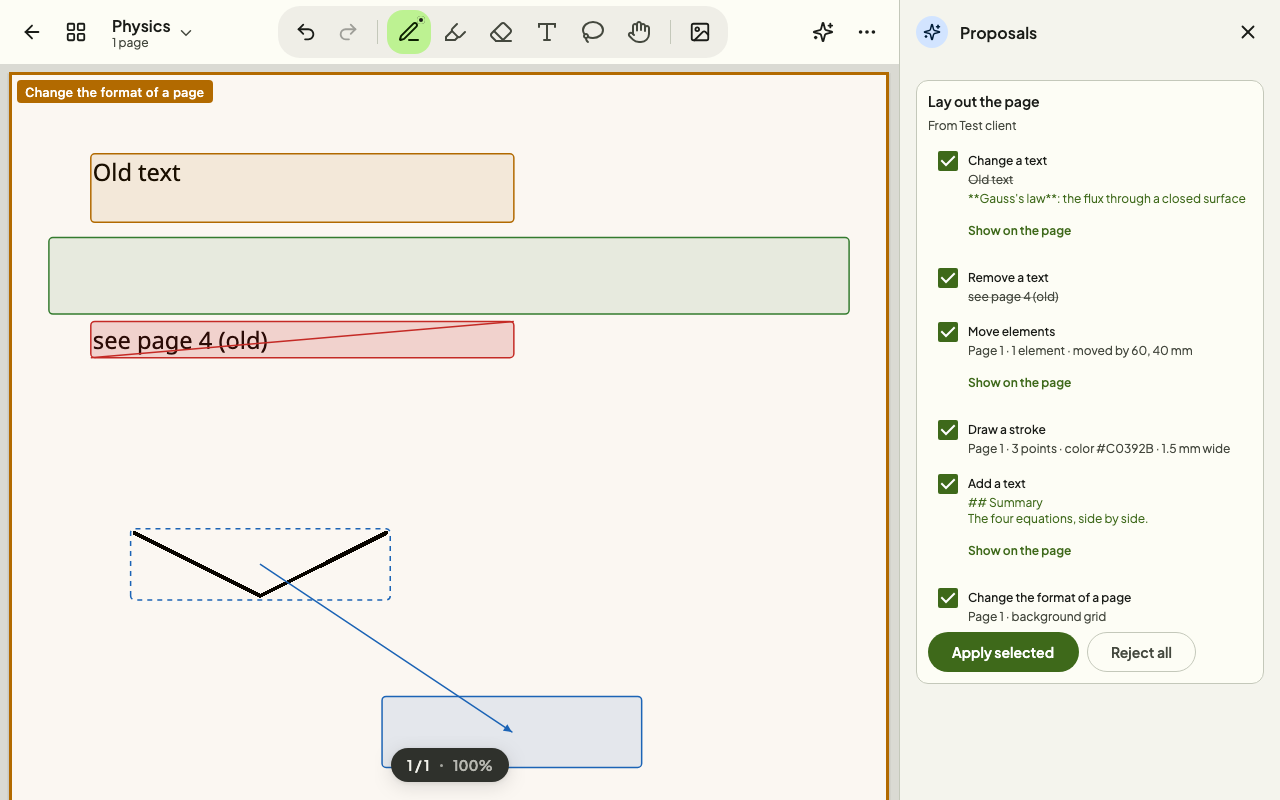
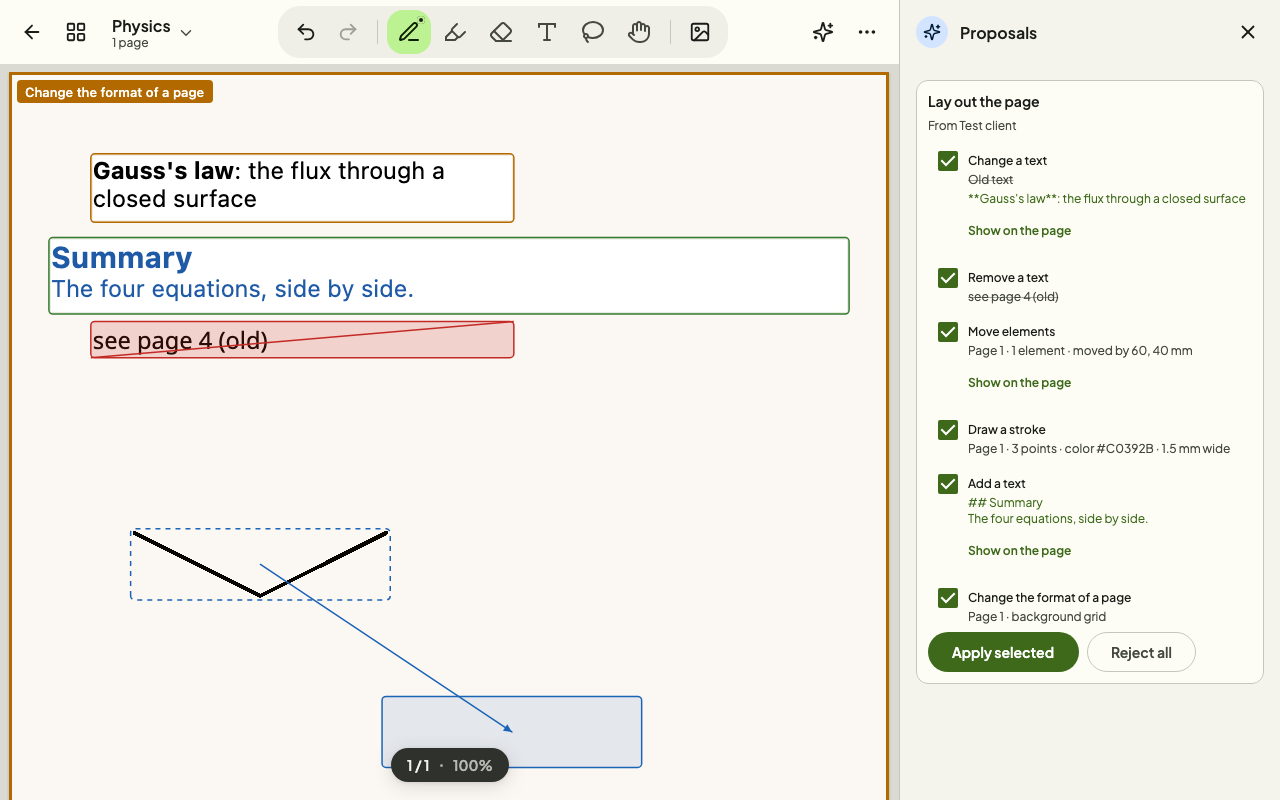
feat(agent): the words of the texts a proposal adds or changes drawn on the page

Changed region(s): [[0.0312, 0.1875, 0.6875, 0.4062]]

diff --git a/drawview-agent-ui/src/commonMain/kotlin/io/github/valerioisufi/drawview/agent/ui/ProposalMarksLayer.kt b/drawview-agent-ui/src/commonMain/kotlin/io/github/valerioisufi/drawview/agent/ui/ProposalMarksLayer.kt
@@ -1,12 +1,22 @@
 package io.github.valerioisufi.drawview.agent.ui
 
 import androidx.compose.foundation.Canvas
+import androidx.compose.foundation.background
+import androidx.compose.foundation.layout.Box
+import androidx.compose.foundation.layout.heightIn
+import androidx.compose.foundation.layout.width
+import androidx.compose.foundation.layout.wrapContentSize
 import androidx.compose.runtime.Composable
+import androidx.compose.runtime.CompositionLocalProvider
+import androidx.compose.runtime.derivedStateOf
 import androidx.compose.runtime.getValue
+import androidx.compose.runtime.key
+import androidx.compose.runtime.remember
 import androidx.compose.runtime.mutableStateOf
 import androidx.compose.runtime.mutableStateSetOf
 import androidx.compose.runtime.setValue
 import androidx.compose.runtime.snapshots.SnapshotStateSet
+import androidx.compose.ui.Alignment
 import androidx.compose.ui.Modifier
 import androidx.compose.ui.geometry.CornerRadius
 import androidx.compose.ui.geometry.Offset
@@ -17,15 +27,19 @@ import androidx.compose.ui.graphics.Path
 import androidx.compose.ui.graphics.PathEffect
 import androidx.compose.ui.graphics.StrokeCap
 import androidx.compose.ui.graphics.StrokeJoin
+import androidx.compose.ui.graphics.TransformOrigin
+import androidx.compose.ui.graphics.graphicsLayer
 import androidx.compose.ui.graphics.drawscope.DrawScope
 import androidx.compose.ui.graphics.drawscope.Stroke
 import androidx.compose.ui.graphics.drawscope.clipRect
+import androidx.compose.ui.platform.LocalDensity
 import androidx.compose.ui.platform.testTag
 import androidx.compose.ui.text.TextMeasurer
 import androidx.compose.ui.text.TextStyle
 import androidx.compose.ui.text.drawText
 import androidx.compose.ui.text.font.FontWeight
 import androidx.compose.ui.text.rememberTextMeasurer
+import androidx.compose.ui.unit.Density
 import androidx.compose.ui.unit.dp
 import androidx.compose.ui.unit.sp
 import io.github.valerioisufi.drawview.agent.PlannedMark
@@ -33,6 +47,8 @@ import io.github.valerioisufi.drawview.agent.Proposal
 import io.github.valerioisufi.drawview.agent.ProposalPlan
 import io.github.valerioisufi.drawview.canvas.controller.DrawViewController
 import io.github.valerioisufi.drawview.model.geometry.Matrix2D
+import io.github.valerioisufi.drawview.model.text.TextSizes
+import io.github.valerioisufi.drawview.ui.components.MarkdownText
 import kotlin.math.atan2
 import kotlin.math.cos
 import kotlin.math.hypot
@@ -120,6 +136,79 @@ internal object MarkColors {
  */
 @Composable
 internal fun ProposalMarksLayer(controller: DrawViewController, marks: List<DrawnMark>, modifier: Modifier = Modifier) {
+    Box(modifier) {
+        MarkFrames(controller, marks, Modifier.matchParentSize())
+        MarkTexts(controller, marks)
+    }
+}
+
+/**
+ * The words of the texts added and changed, as the page would draw them ([MarkdownText]), each one at
+ * the corner of its box on its page: laid out once at [LAYOUT_PX_PER_MM], then placed and scaled by
+ * the camera where they are drawn, so that a pan and a zoom compose nothing. Under them the paper of
+ * their page, so that the words they replace do not show through. Only the texts of the pages on the
+ * screen are composed.
+ */
+@Composable
+private fun MarkTexts(controller: DrawViewController, marks: List<DrawnMark>) {
+    val texts = marks.filter { it.mark.markdown.isNotBlank() && (it.mark.kind == PlannedMark.Kind.ADDED || it.mark.kind == PlannedMark.Kind.CHANGED) }
+    if (texts.isEmpty()) return
+    // The pages on the screen: read at every frame, composed again only when they change
+    val visible by remember(controller) {
+        derivedStateOf {
+            controller.version
+            controller.viewport.camera.moveCount
+            controller.viewport.visiblePages().mapTo(HashSet()) { it.index }
+        }
+    }
+    val pages = controller.document.pages
+    // Laid out in pixels of the layout, whatever the density of the screen
+    CompositionLocalProvider(LocalDensity provides Density(1f, 1f)) {
+        for (drawn in texts) {
+            val mark = drawn.mark
+            val index = pages.indexOfFirst { it.id == mark.pageId }
+            if (index < 0 || index !in visible) continue
+            val paper = Color(pages[index].background.backgroundColor)
+            key(mark.pageId, mark.elementId, mark.box, mark.markdown, mark.fontSize) {
+                Box(
+                    modifier = Modifier
+                        // As wide as its box, also when the box is wider than the canvas at this scale
+                        .wrapContentSize(Alignment.TopStart, unbounded = true)
+                        .graphicsLayer {
+                            @Suppress("UNUSED_VARIABLE") val frame = controller.version
+                            @Suppress("UNUSED_VARIABLE") val camera = controller.viewport.camera.moveCount
+                            val matrix = controller.viewport.pageMmToScreen(index)
+                            if (matrix == null) {
+                                alpha = 0f
+                                return@graphicsLayer
+                            }
+                            val corner = matrix.mapPoint(mark.box.left, mark.box.top)
+                            transformOrigin = TransformOrigin(0f, 0f)
+                            translationX = corner.x
+                            translationY = corner.y
+                            scaleX = matrix.scaleFactor / LAYOUT_PX_PER_MM
+                            scaleY = scaleX
+                            alpha = if (drawn.emphasis == Emphasis.FAINT) FAINT_ALPHA else 1f
+                        }
+                        .width((mark.box.width * LAYOUT_PX_PER_MM).dp)
+                        .heightIn(min = (mark.box.height * LAYOUT_PX_PER_MM).dp)
+                        .background(paper)
+                        .testTag(MARK_TEXT_TAG)
+                ) {
+                    MarkdownText(
+                        mark.markdown,
+                        color = Color(mark.color),
+                        style = TextStyle(fontSize = (mark.fontSize * TextSizes.PT_TO_MM * LAYOUT_PX_PER_MM).sp)
+                    )
+                }
+            }
+        }
+    }
+}
+
+/** The frames, the veils, the arrows and the strokes of [marks], drawn over the canvas. */
+@Composable
+private fun MarkFrames(controller: DrawViewController, marks: List<DrawnMark>, modifier: Modifier = Modifier) {
     val measurer = rememberTextMeasurer()
     Canvas(modifier.testTag(MARKS_TAG)) {
         // Read here: a pan, a zoom or a change of the pages draws again, and composes nothing
@@ -143,6 +232,12 @@ internal fun ProposalMarksLayer(controller: DrawViewController, marks: List<Draw
 
 /** The tag of the layer of the marks, for the tests. */
 internal const val MARKS_TAG: String = "agent-marks"
+
+/** The tag of the words of a text added or changed, drawn on the page, for the tests. */
+internal const val MARK_TEXT_TAG: String = "agent-mark-text"
+
+/** The pixels of the layout of a text per millimeter of its page: scaled to the screen where it is drawn. */
+private const val LAYOUT_PX_PER_MM = 8f
 
 private fun io.github.valerioisufi.drawview.model.geometry.Rect.toCompose(): Rect = Rect(left, top, right, bottom)
 

diff --git a/drawview-agent-ui/src/jvmTest/kotlin/io/github/valerioisufi/drawview/agent/ui/AgentReviewEditorTest.kt b/drawview-agent-ui/src/jvmTest/kotlin/io/github/valerioisufi/drawview/agent/ui/AgentReviewEditorTest.kt
@@ -268,16 +268,20 @@ class AgentReviewEditorTest {
         assertEquals(setOf("Old text", "see page 4 (old)"), scene.texts.toSet())
         assertFalse(scene.controller.historyManager.canUndo && scene.texts.size != 2)
         waitForIdle()
+        // The words of the text changed and of the text added, on the page
+        assertEquals(2, onAllNodesWithTag(MARK_TEXT_TAG).fetchSemanticsNodes().size)
         onRoot().captureRoboImage("screenshots/agent_marks.png")
 
-        // The canvas under the marks is used as always: a wheel on a mark pans it
-        val before = scene.onScreen(20f, 60f)
-        onRoot().performMouseInput {
-            moveTo(scene.onScreen(60f, 65f))
-            scroll(3f)
+        // The canvas under the marks is used as always: a wheel on a mark, and on the words of one, pans it
+        for (point in listOf(scene.onScreen(60f, 65f), scene.onScreen(40f, 23f))) {
+            val before = scene.onScreen(20f, 60f)
+            onRoot().performMouseInput {
+                moveTo(point)
+                scroll(1f)
+            }
+            waitForIdle()
+            assertTrue(scene.onScreen(20f, 60f).y < before.y, "the page from $before to ${scene.onScreen(20f, 60f)}")
         }
-        waitForIdle()
-        assertTrue(scene.onScreen(20f, 60f).y < before.y, "the page from $before to ${scene.onScreen(20f, 60f)}")
         assertTrue(marksShown())
 
         // An item chosen in the list brings the page to what it changes

diff --git a/docs/agent-preview.md b/docs/agent-preview.md
@@ -113,8 +113,8 @@ One commit per phase on `feat/agent-preview`, with the checks of `CLAUDE.md`.
 |---|---|---|
 | 1 | `PlannedMark` and `PlannedItem.marks` for every item (`ProposalMarks`), with the ABI of `drawview-agent` re-recorded. Tests (`ProposalMarksTest`): the marks of each kind of item, a text changed in place and one given another place, an item after one that removes, a stale item where what it was about still is and none when it is gone. A box outside its page is clipped when drawn (phase 2) | Done |
 | 2 | `ProposalMarksLayer` in the overlay of the review: frames, veils, arrows, the strokes added and the pages with their label; `ReviewSelection`, an item chosen in the list bringing the page to it and standing out, one left out drawn faint; the plans made with the places the user chose. Tests: `ProposalMarksLayerTest` (which marks are drawn and how strongly), `AgentReviewEditorTest` in a real editor (nothing drawn before a proposal, its marks while it is reviewed, nothing applied by looking, a wheel on a mark still panning the canvas, an item chosen bringing the page back, nothing left once decided), the screenshot `agent_marks` (`verifyRoborazziJvm`) | Done |
-| 3 | The words of the texts added and changed drawn as the page would draw them. Tests: screenshots, a real editor | Not started |
-| 4 | The desktop application on a scratch directory with a real client (`pencilnotes propose`); the clicks in its window left to the user | Not started |
+| 3 | The words of the texts added and changed drawn as the page would draw them (`MarkdownText`), at the corner of their box, on the paper of their page, laid out once and placed by the camera where they are drawn; only those of the pages on the screen are composed. Tests: `AgentReviewEditorTest` (the words of the text changed and of the text added are on the page, a wheel on them still pans the canvas), the screenshot `agent_marks` re-recorded | Done |
+| 4 | The desktop application on a scratch directory with a real client (`pencilnotes propose`): the review is opened and looked at by clicks in its window | Left to the user |
 
 ## Decisions
 
@@ -135,6 +135,9 @@ Taken alone, revertible.
 
 ## Left for later
 
+* The words drawn on the page are laid out by `MarkdownText`, the box of the plan by the editor: a
+  long text may end a little above or below the frame of its mark. They are not clipped to their
+  page.
 * What was applied without a review (`applyDirectly`) shown on the page from the activity, beside its
   *Undo*.
 * The proposals for the library (documents and folders), which have no page.
